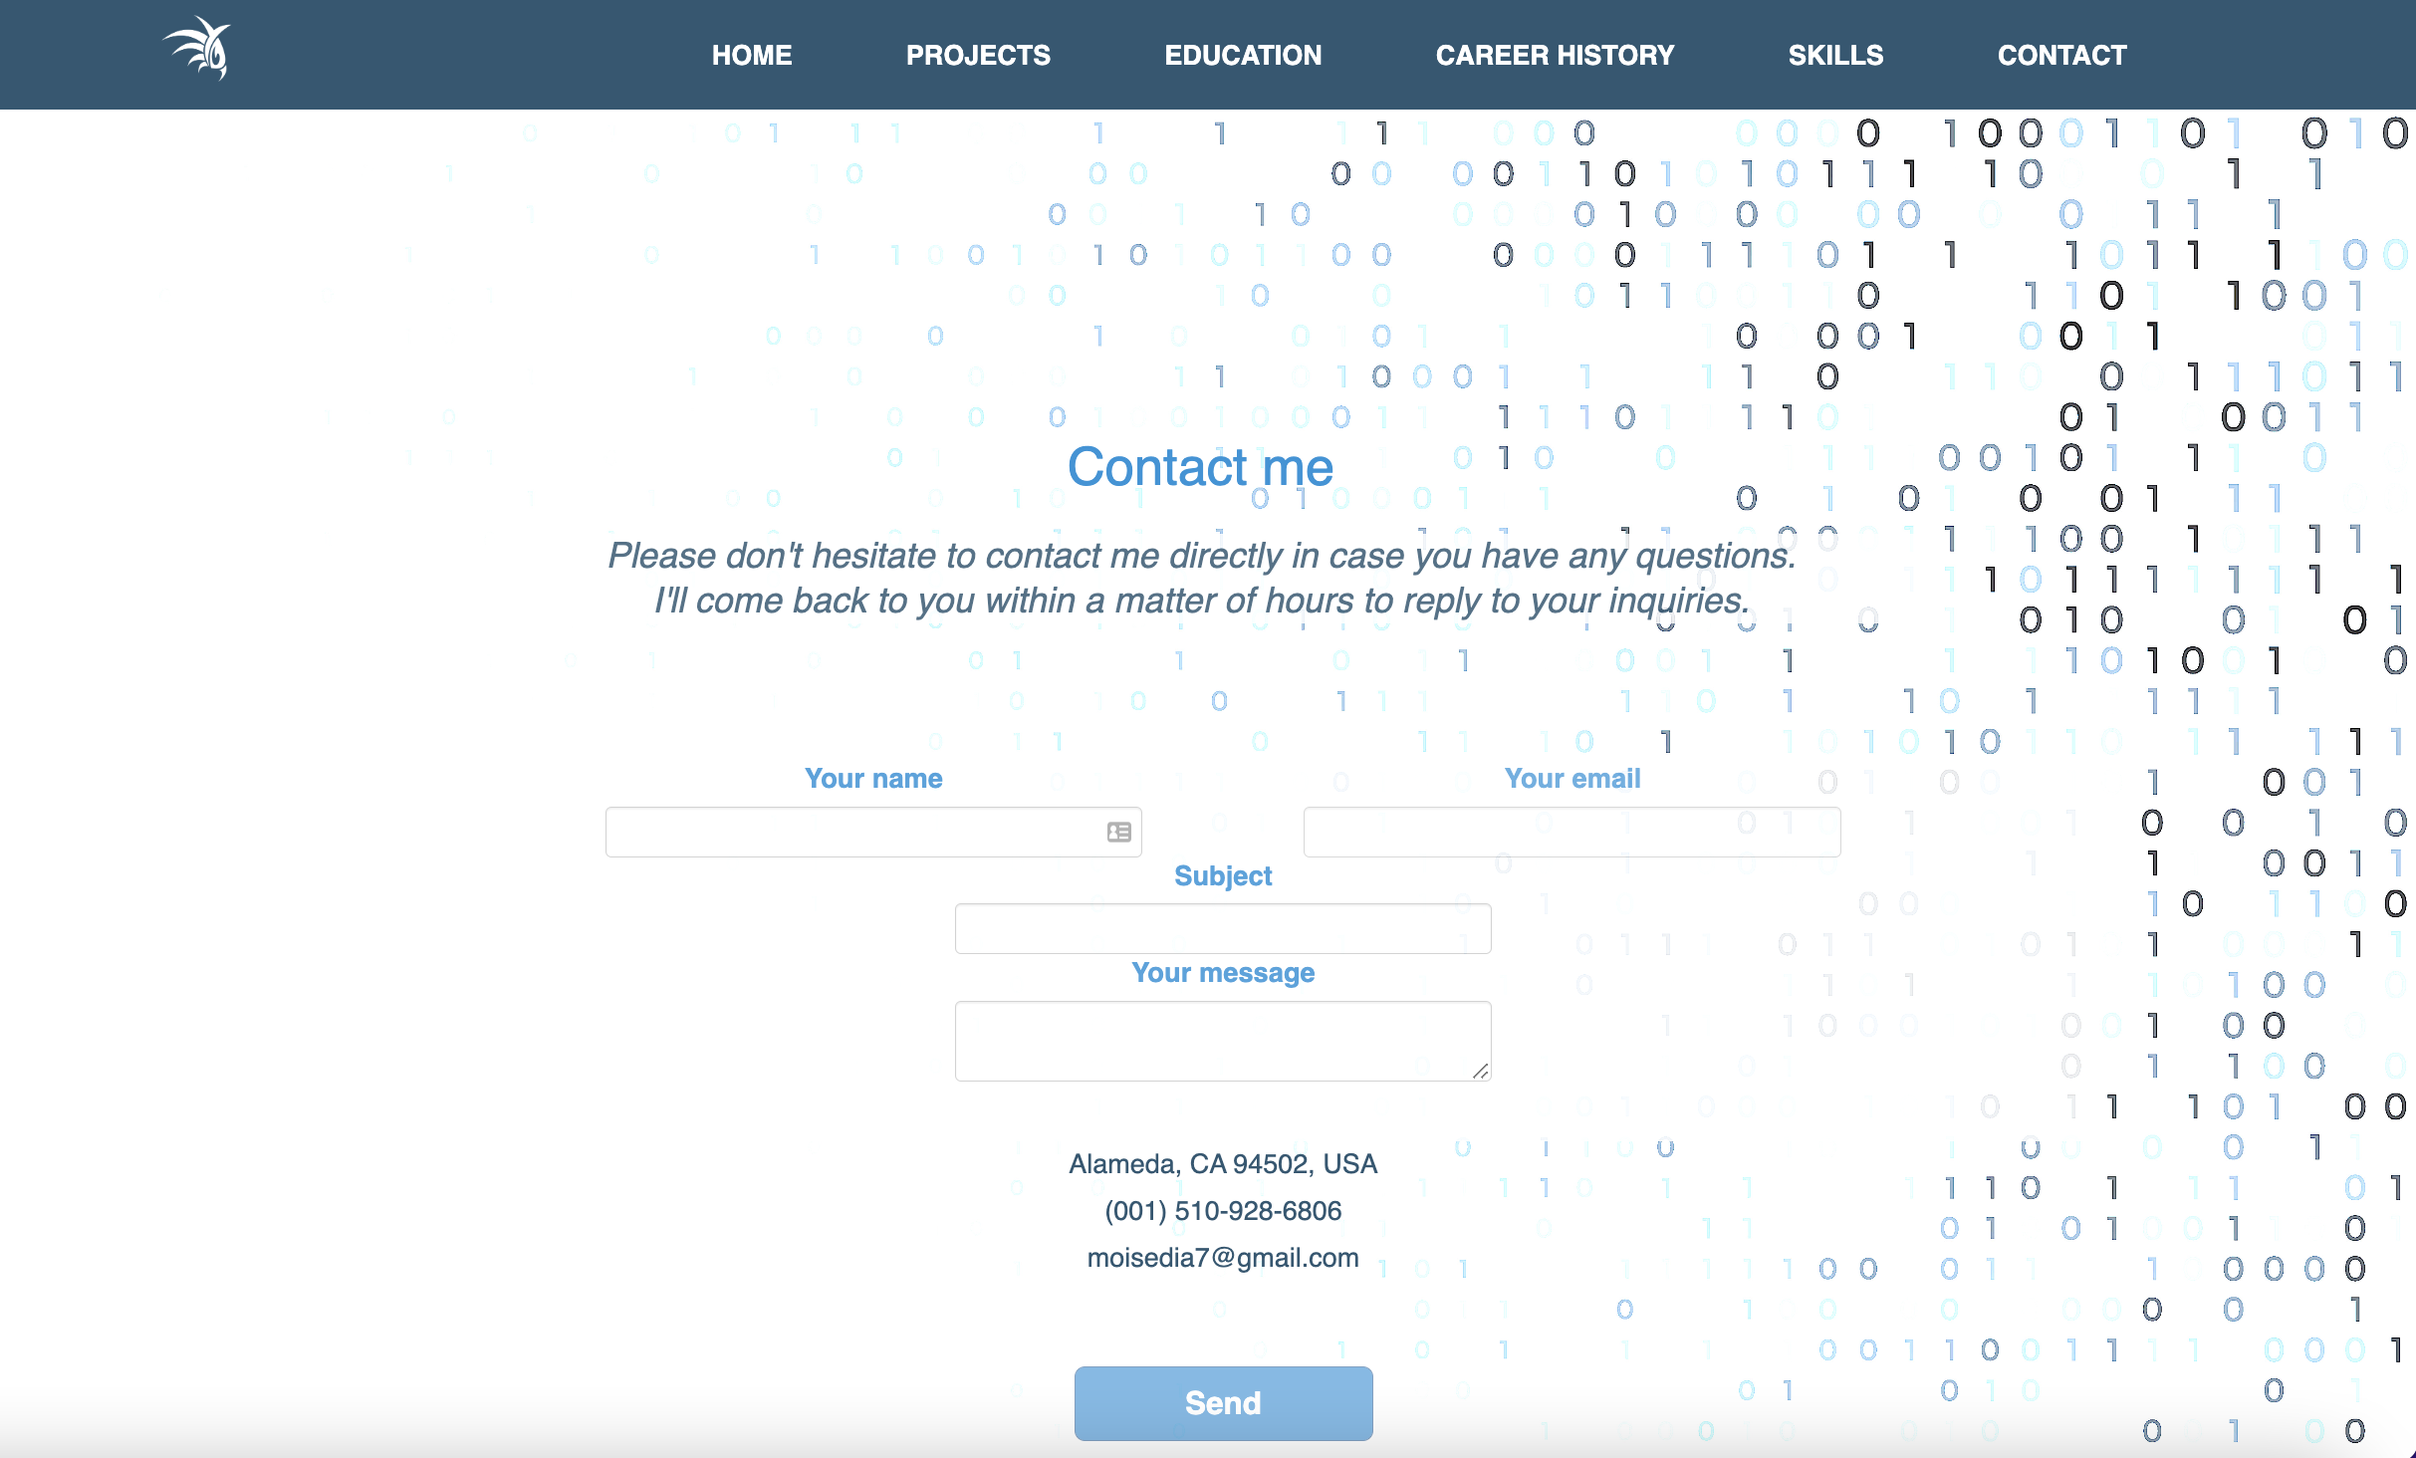
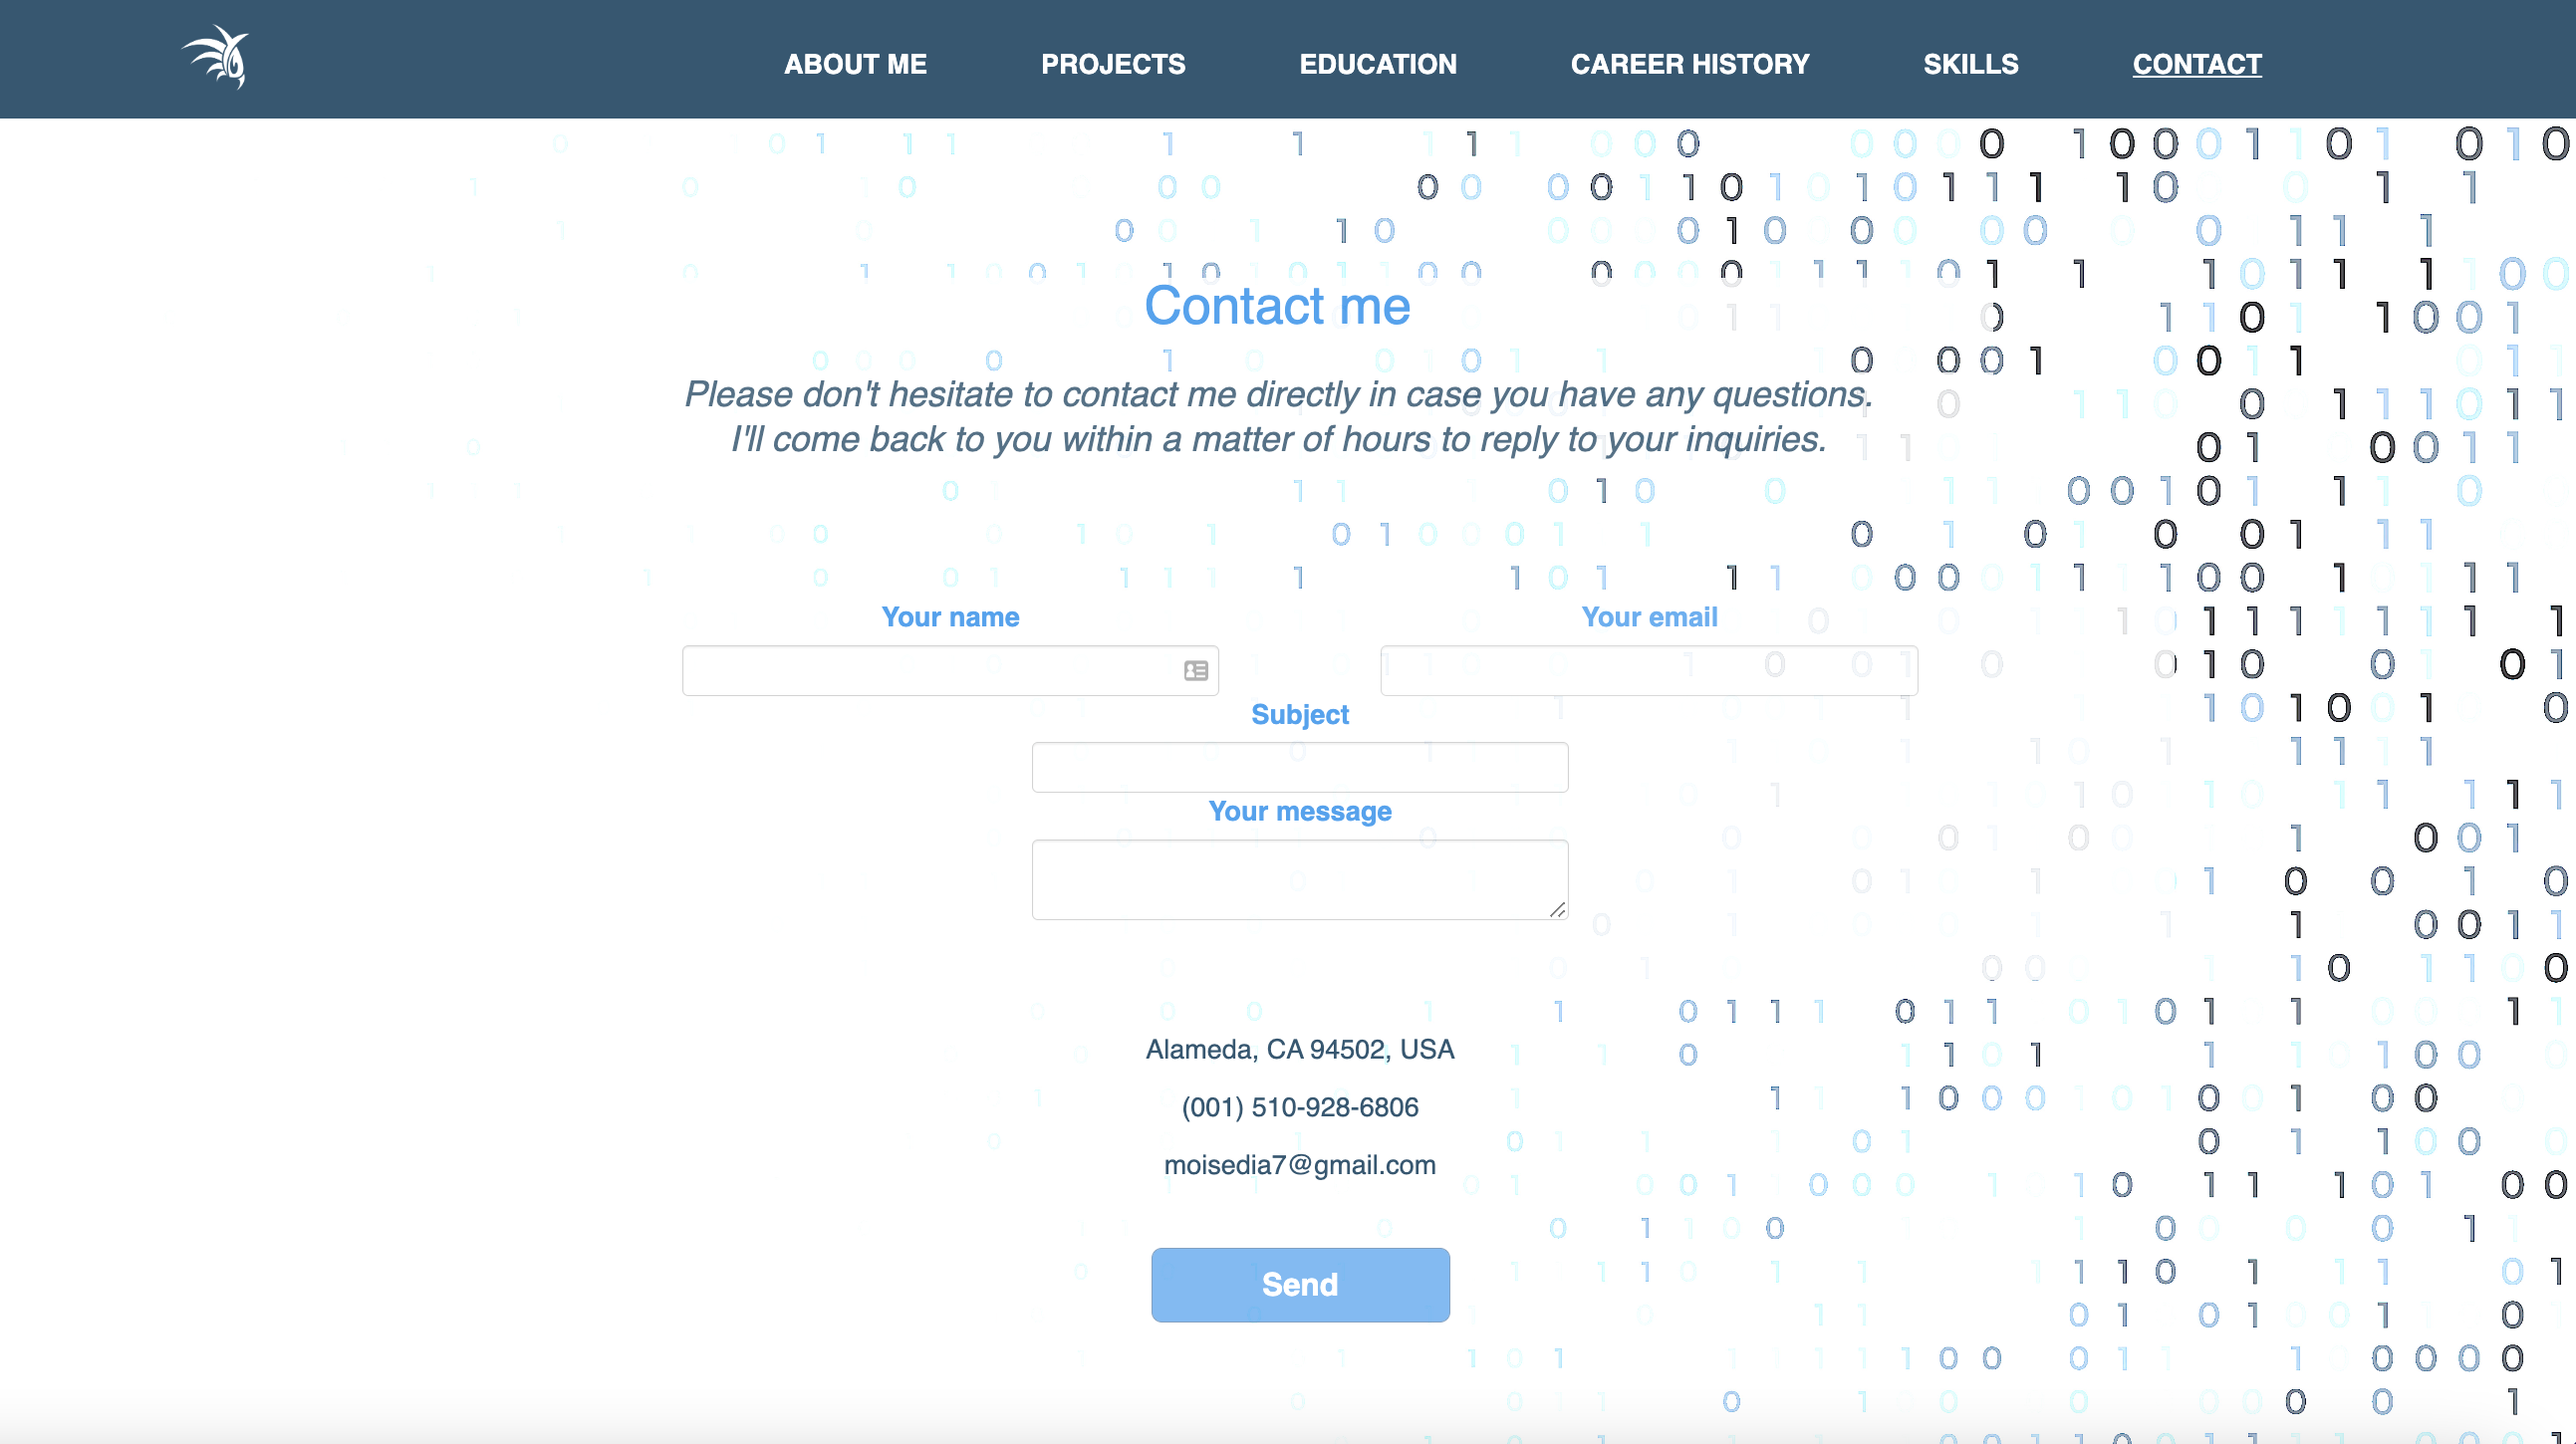
New updated screenshots added to README file

diff --git a/README.md b/README.md
@@ -45,14 +45,18 @@ You can contribute to this project by accessing my GitHub page.
 
 ### Screenshots:
 
-1. Home Page:
+1. About Me Page:
 
-![Home Page](public/screenshots/Home-Page.png "Home Page")
+![About Me Page](public/screenshots/AboutMe-Page.png "About Me Page")
 
-2. Projects Page With Footer:
+2. About Me Page With Resume LinkedIn And GitHub Links:
+
+![About Me Page With Resume LinkedIn And GitHub Links](public/screenshots/AboutMe-Page-With-Resume-LinkedIn-And-GitHub-Links.png "About Me Page With Resume LinkedIn And GitHub Links")
+
+3. Projects Page With Footer:
 
 ![Projects Page With Footer](public/screenshots/Projects-Page-With-Footer.png "Projects Page With Footer")
 
-3. Contact Page:
+4. Contact Page:
 
 ![Contact Page](public/screenshots/Contact-Page.png "Contact Page")
